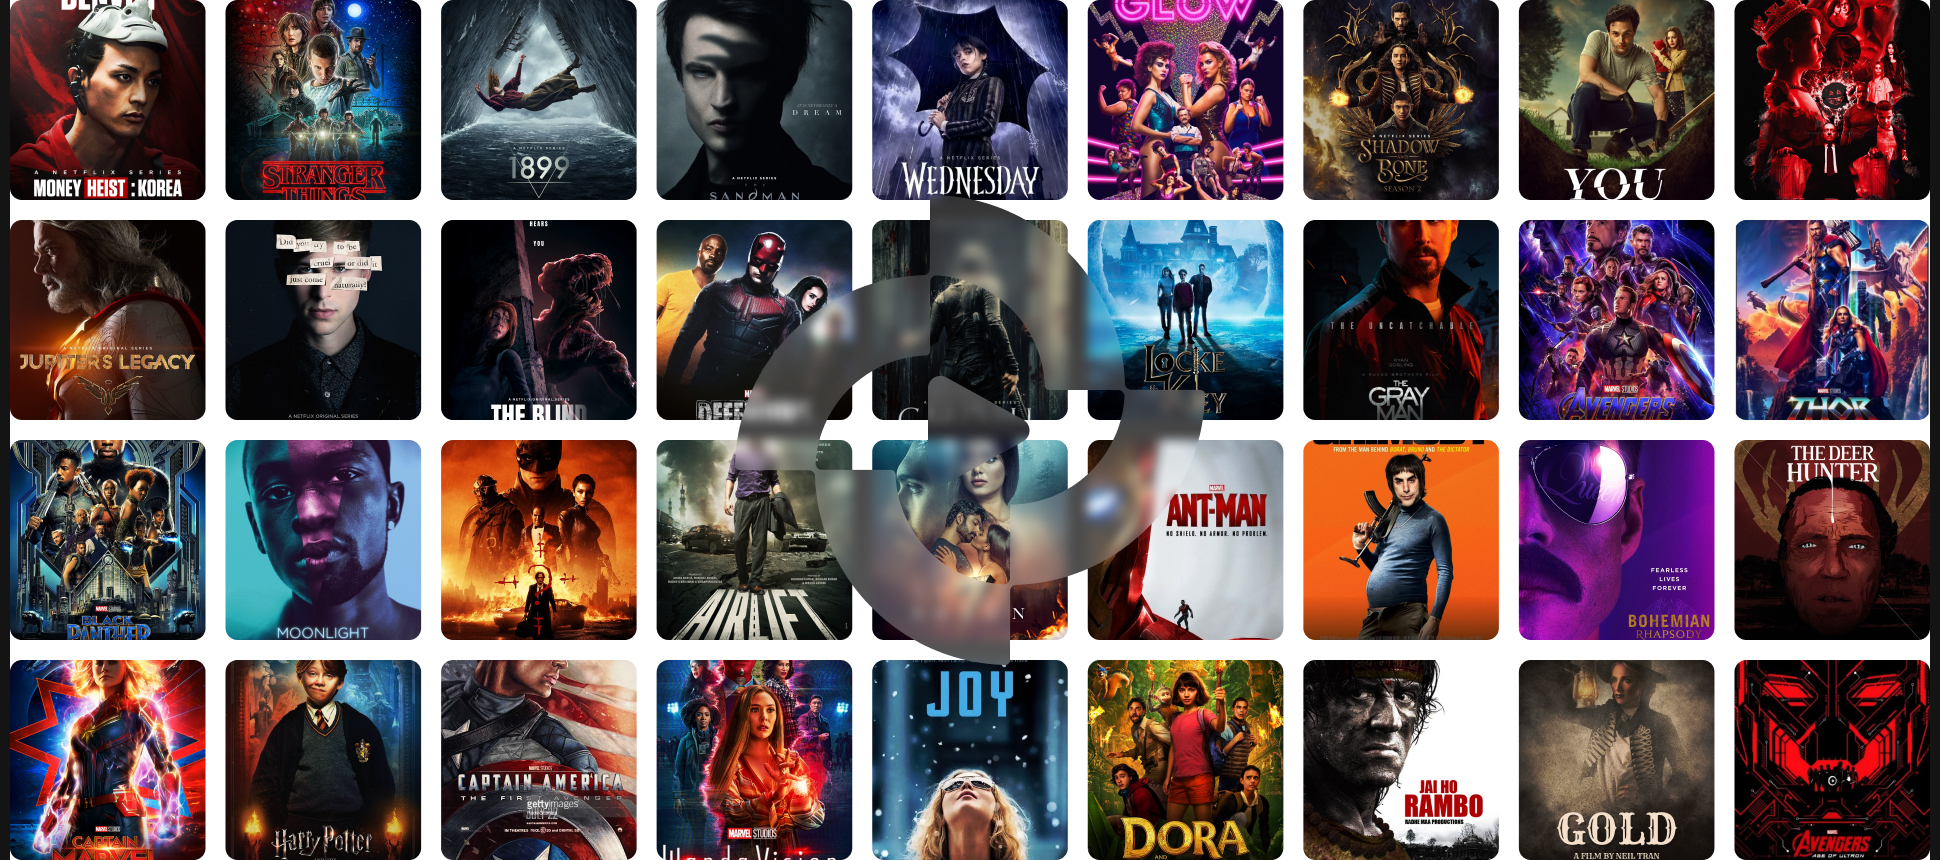
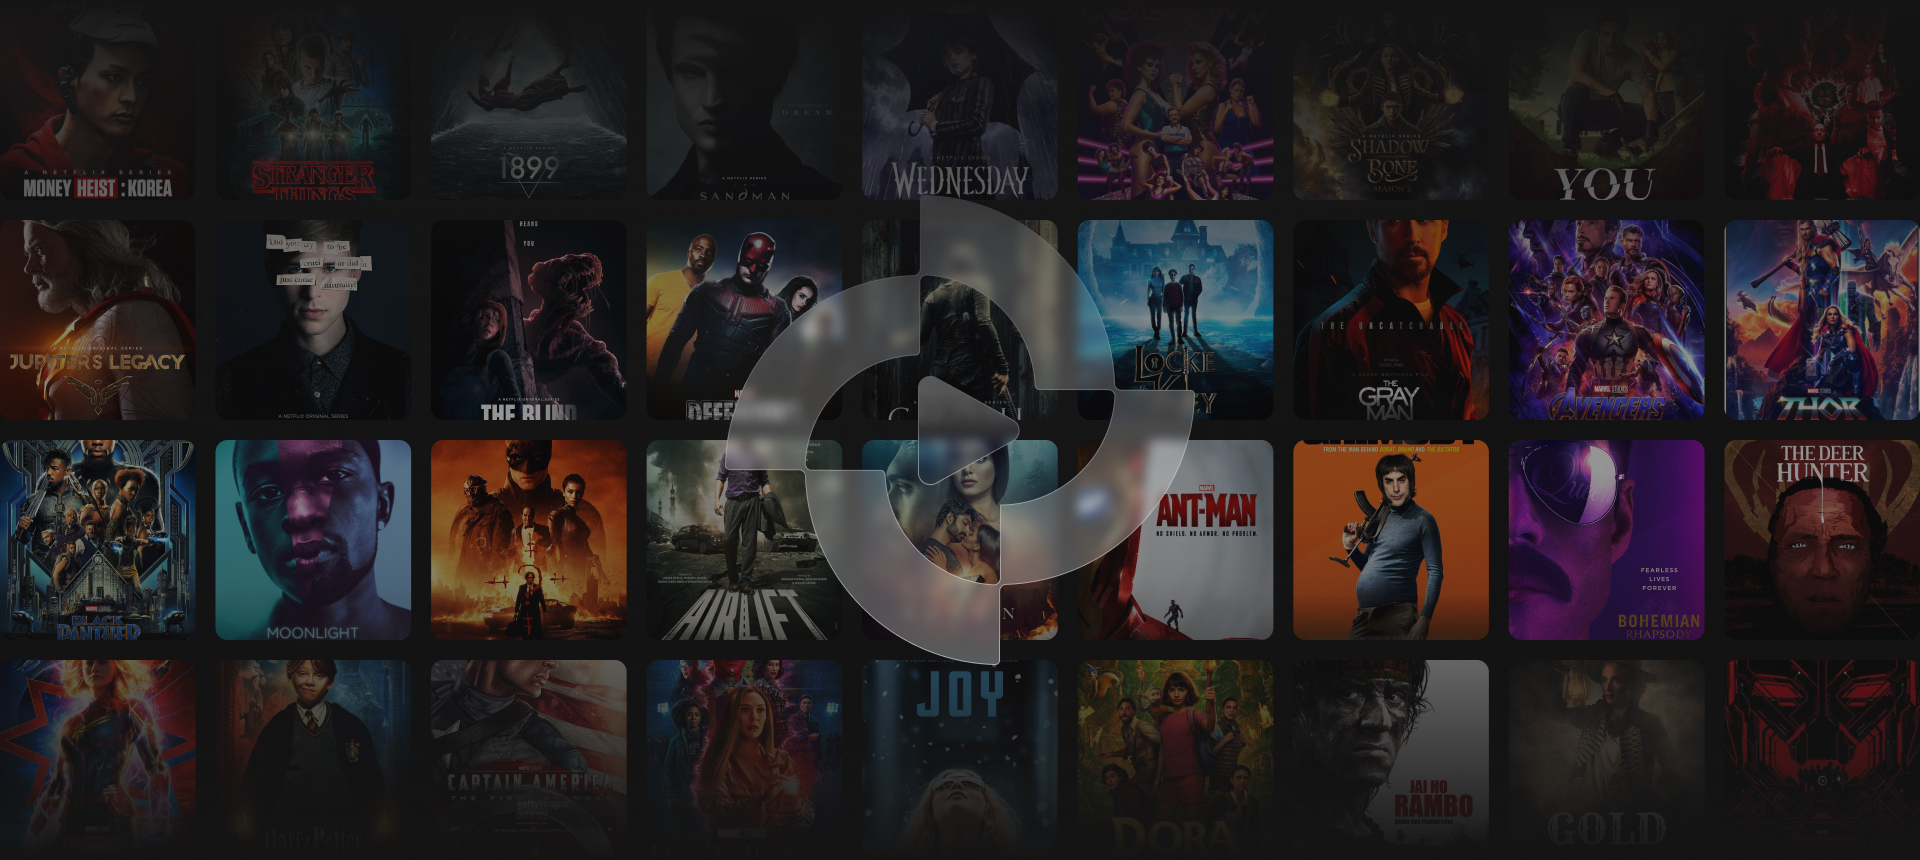
create main-screen

diff --git a/src/index.css b/src/index.css
@@ -35,11 +35,11 @@ body {
 .wrapper {
     height: 100%;
     width: 100%;
-    background-color: #555555;
+    background-color: #141414;
 }
 
 .header {
-    /* position: absolute; */
+    position: absolute;
     width: 100%;
 }
 
@@ -63,6 +63,11 @@ body {
 
     .header__actions {
         column-gap: 30px;
+    }
+
+    .main-screen__body {
+        /* margin-top: 796px; */
+        width: 1096px;
     }
 }
 
@@ -97,10 +102,65 @@ body {
     display: flex;
 }
 
-.main_image {
+
+
+
+
+
+.main {
+    flex: 1 1 auto;
+}
+
+.main__screen {
     height: 860px;
-    width: 1920px;
-    background-image: url(assets/images/main_image_1.jpg), url(assets/icons/big_logo.svg);
-    background-repeat: repeat-x, no-repeat;
-    background-position: center, center;
+    /* width: 100%; */
+    background-image: url(assets/images/main_image.jpg);
+    background-repeat: no-repeat;
+    background-position: center;
+}
+
+.main-screen__body {
+    position: relative;
+    top: 796px;
+    margin: 0 auto;
+    /* background-color: #1F1F1F; */
+}
+
+.main-body__title {
+    margin: 0;
+    line-height: 87px;
+    text-align: center;
+    font-family: Manrope-Bold;
+    font-size: 58px;
+    color: #FFFFFF;
+}
+
+.main-body__text {
+    margin: 14px 0px 0px 0px;
+    text-align: center;
+    font-family: Manrope-Regular;
+    font-size: 18px;
+    color: #999999;
+}
+
+.main-body__btn {
+    display: flex;
+    margin: 0 auto;
+    margin-top: 50px;
+    padding: 18px 24px;
+    cursor: pointer;
+    border: none;
+    border-radius: 8px;
+    background-color: #E50000;
+}
+
+.main-body__btn img {
+    /* max-height: 28px;
+    max-width: 28px; */
+}
+
+.main-body__btn span {
+    font-family: Manrope-Semibold;
+    font-size: 18px;
+    color: #FFFFFF;
 }

diff --git a/src/components/Main.jsx b/src/components/Main.jsx
@@ -1,8 +1,18 @@
+import play from '../assets/icons/play.svg';
 
 function Main() {
     return(
         <main className="main">
-            <div class="main_image"></div>
+            <div class="main__screen">
+                <div className="main-screen__body">
+                    <h1 className="main-body__title">The Best Streaming Experience</h1>
+                    <p className="main-body__text">StreamVibe is the best streaming experience for watching your favorite movies and shows on demand, anytime, anywhere. With StreamVibe, you can enjoy a wide variety of content, including the latest blockbusters, classic movies, popular TV shows, and more. You can also create your own watchlists, so you can easily find the content you want to watch.</p>
+                    <button type="button" className="main-body__btn">
+                        <img src={play} alt="" />
+                        <span>Start Watching Now</span>
+                    </button>
+                </div>
+            </div>
         </main>
     );
 }
